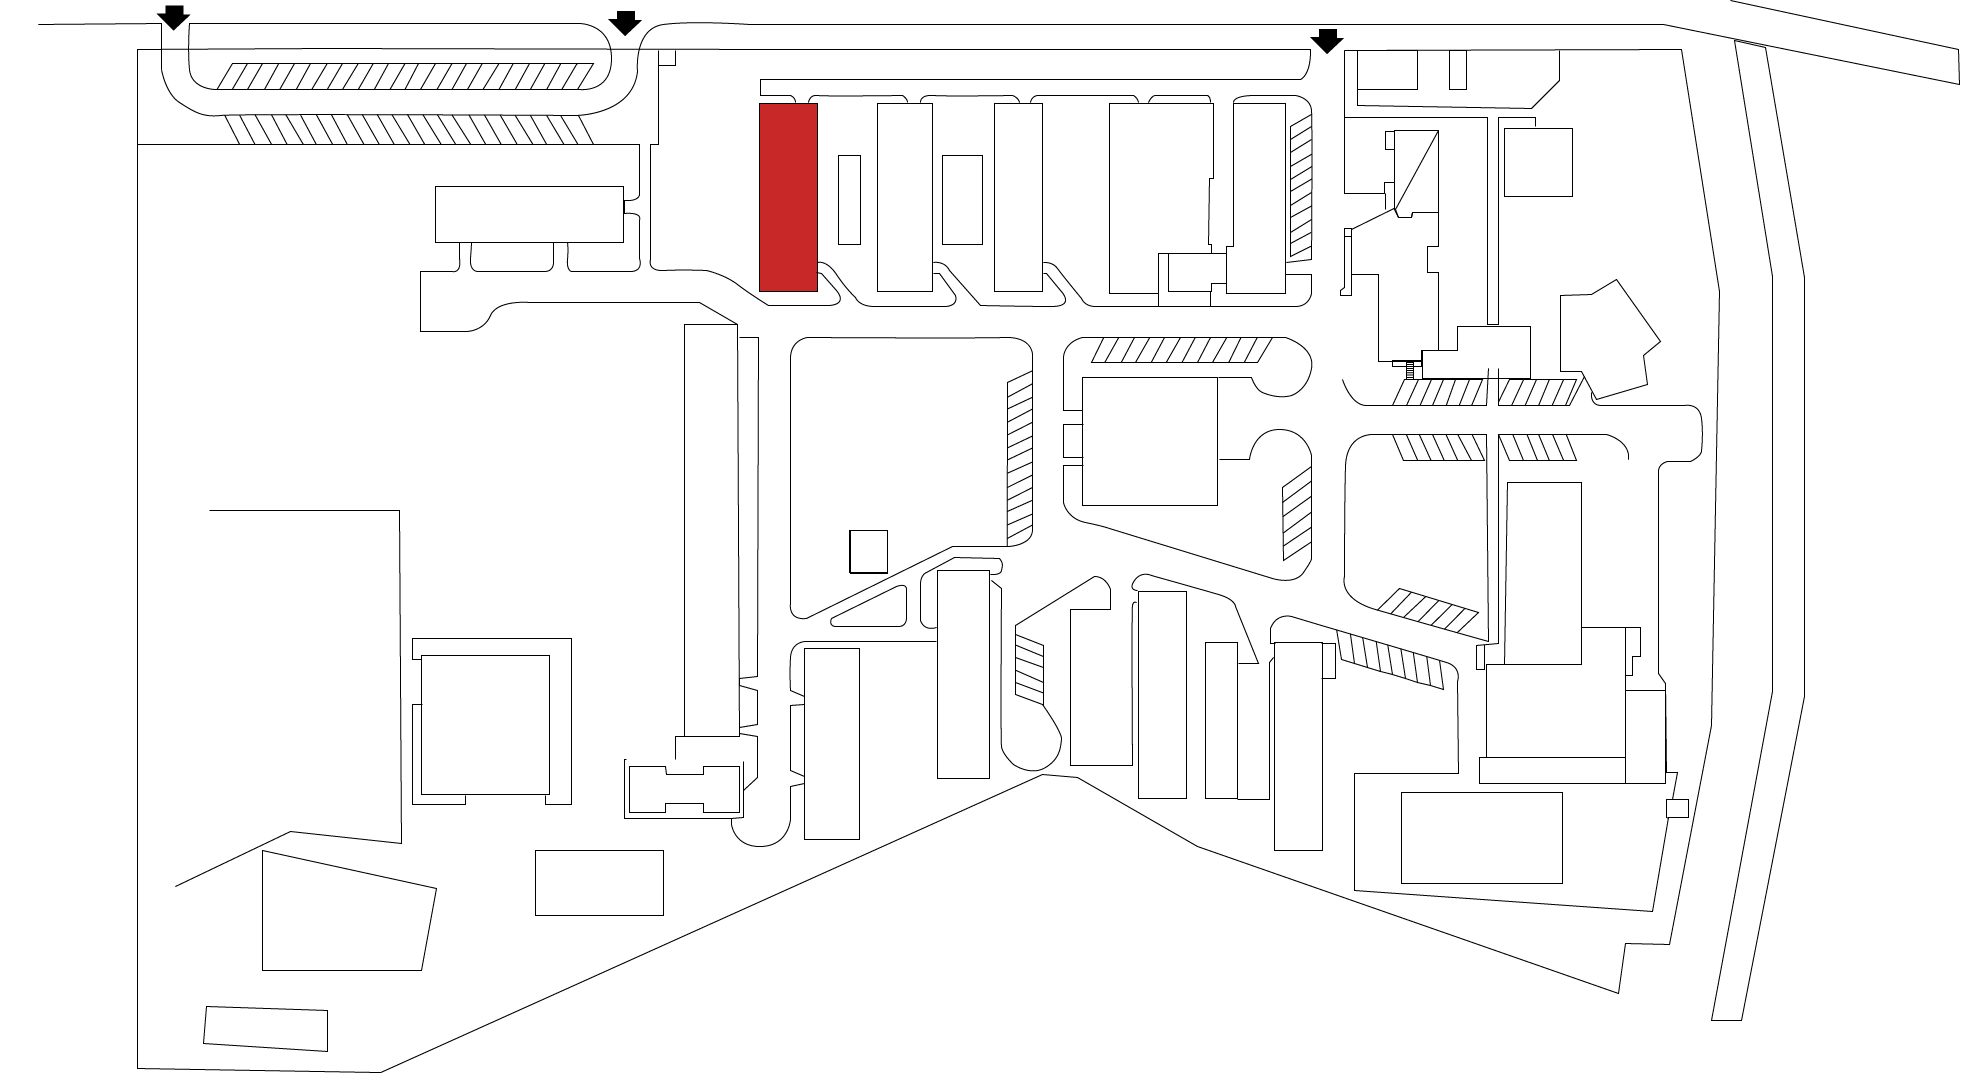
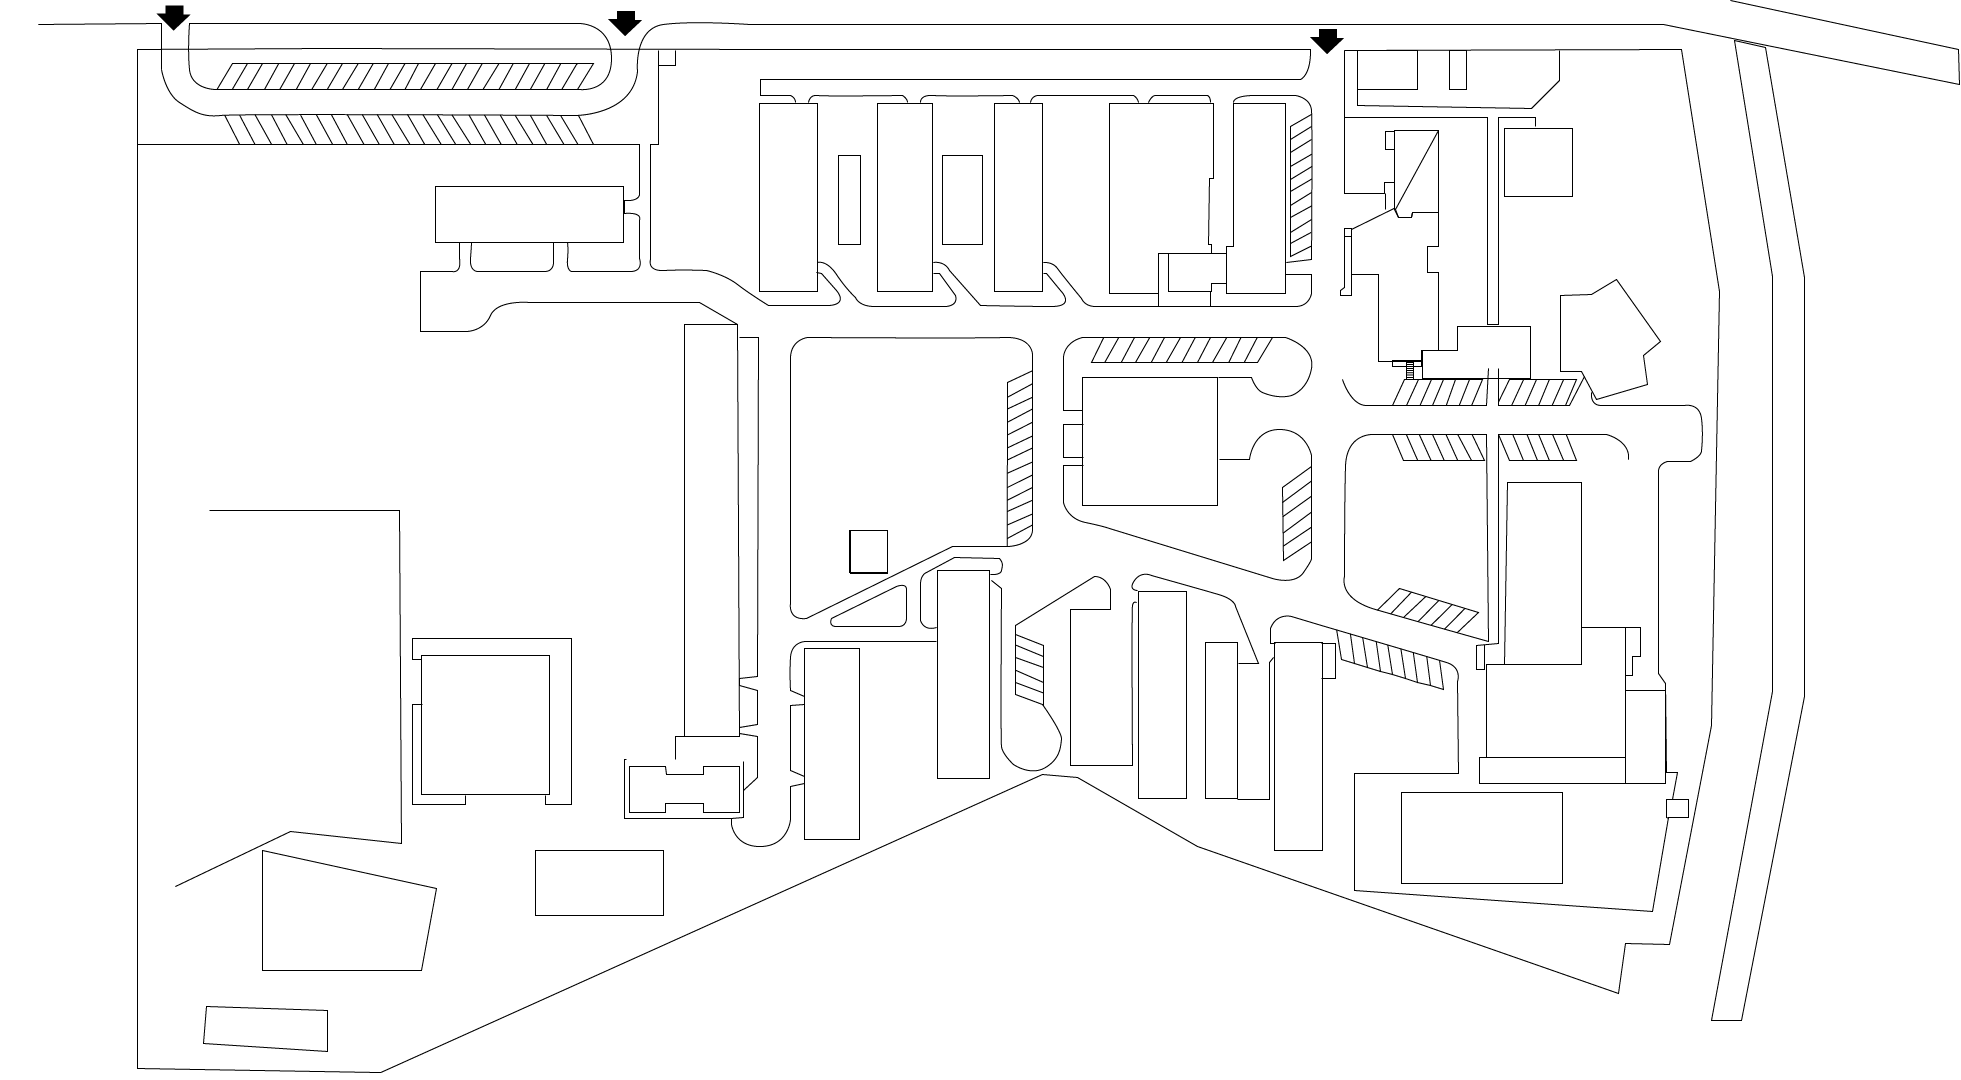
Canva

Changed region(s): [[0.3733, 0.0917, 0.4355, 0.275]]

diff --git a/src/main/java/fr/afpa/afmap/controllers/MainController.java b/src/main/java/fr/afpa/afmap/controllers/MainController.java
@@ -7,11 +7,14 @@ import fr.afpa.afmap.model.Formation;
 import javafx.collections.FXCollections;
 import javafx.collections.ObservableList;
 import javafx.fxml.FXML;
+import javafx.scene.canvas.Canvas;
+import javafx.scene.canvas.GraphicsContext;
 import javafx.scene.control.ComboBox;
 import javafx.scene.control.Label;
 import javafx.scene.image.Image;
 import javafx.scene.image.ImageView;
 import javafx.scene.layout.*;
+import javafx.scene.paint.Color;
 
 import java.io.IOException;
 import java.util.ArrayList;
@@ -42,10 +45,19 @@ public class MainController {
     @FXML
     private ImageView imageViewBat;
 
+    @FXML
+    private Canvas canvaCDA;
+    @FXML
+    private Canvas canvaCDABis;
+
 
     private ArrayList<BatimentFormation> batimentFormationArrayList = new ArrayList<BatimentFormation>();
     private ArrayList<Formation> listeAllFormations = new ArrayList<Formation>();
-    private Double widthBorderPane = 0.0;
+
+    private ArrayList<Canvas> canvasArrayList = new ArrayList<>();
+
+
+    static GraphicsContext gc;
 
     //ajout batiments
     BatimentFormation batFor1 = new BatimentFormation(64, 1.0, 1.0, 1.0, 1.0, 1.0, 1.0, 1.0, 1.0);
@@ -89,6 +101,10 @@ public class MainController {
 
 
 
+        canvasArrayList.add(canvaCDA);
+        canvasArrayList.add(canvaCDABis);
+
+
         comboBat.setOnAction(event -> {
             if (comboBat.getSelectionModel().isSelected(0)) {
                 comboFormation.setVisible(true);
@@ -106,7 +122,46 @@ public class MainController {
             labelNomFormateur.setText(comboFormation.getSelectionModel().getSelectedItem().getFormateur().getNom() + " " + comboFormation.getSelectionModel().getSelectedItem().getFormateur().getPrenom());
             labelMailFormateur.setText(comboFormation.getSelectionModel().getSelectedItem().getFormateur().getMail());
             labelTelephoneFormateur.setText(comboFormation.getSelectionModel().getSelectedItem().getFormateur().getNumeroTelephone());
+
+
+            if(comboFormation.getSelectionModel().getSelectedItem().getNom() == "CDA"){
+                GraphicsContext gc = canvaCDABis.getGraphicsContext2D();
+                gc.setFill(Color.LIGHTBLUE);
+                gc.fillRect(0,0,300,300);
+                canvaCDABis.setOpacity(1);
+            } else {
+                canvaCDABis.setOpacity(0);
+            }
         });
+
+
+
+//        EVENT ON CDA BAT
+
+        canvaCDA.setOnMouseEntered(event -> {
+            GraphicsContext gc = canvaCDA.getGraphicsContext2D();
+            gc.setFill(Color.LIGHTBLUE);
+            gc.fillRect(0,0,300,300);
+            canvaCDA.setOpacity(1);
+        });
+
+        canvaCDA.setOnMouseExited(event-> {
+            canvaCDA.setOpacity(0);
+        });
+
+        canvaCDA.setOnMouseClicked(event-> {
+            for (Formation form : listeAllFormations){
+                if(form.getNom() == "CDA"){
+                    comboBat.getSelectionModel().selectFirst();
+                    comboFormation.getSelectionModel().select(form);
+                    GraphicsContext gc = canvaCDABis.getGraphicsContext2D();
+                    gc.setFill(Color.LIGHTBLUE);
+                    gc.fillRect(0,0,300,300);
+                    canvaCDA.setOpacity(1);
+                }
+            }
+        });
+
 
 
     }

diff --git a/src/main/java/fr/afpa/afmap/HelloApplication.java b/src/main/java/fr/afpa/afmap/HelloApplication.java
@@ -16,7 +16,6 @@ public class HelloApplication extends Application {
 
 
         stage.setTitle("AFMAP");
-
         stage.setMaximized(true);
         stage.setScene(scene);
         stage.show();
